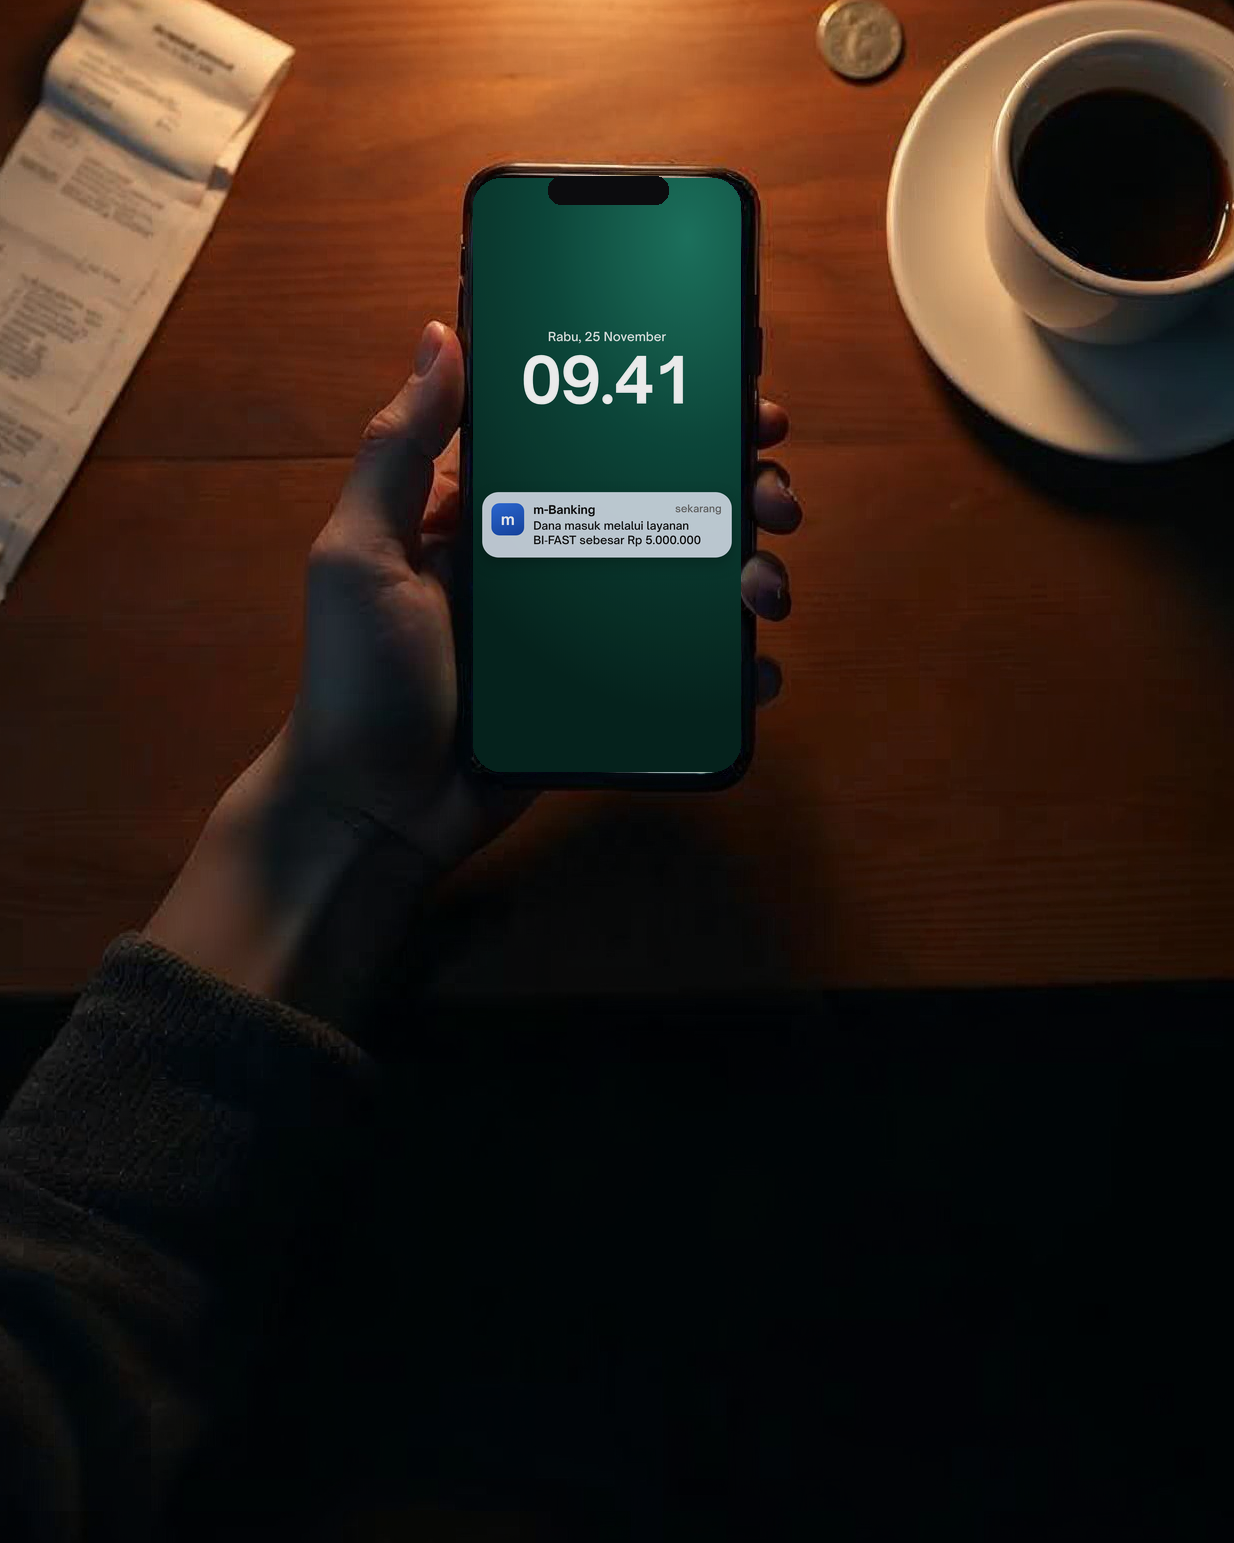
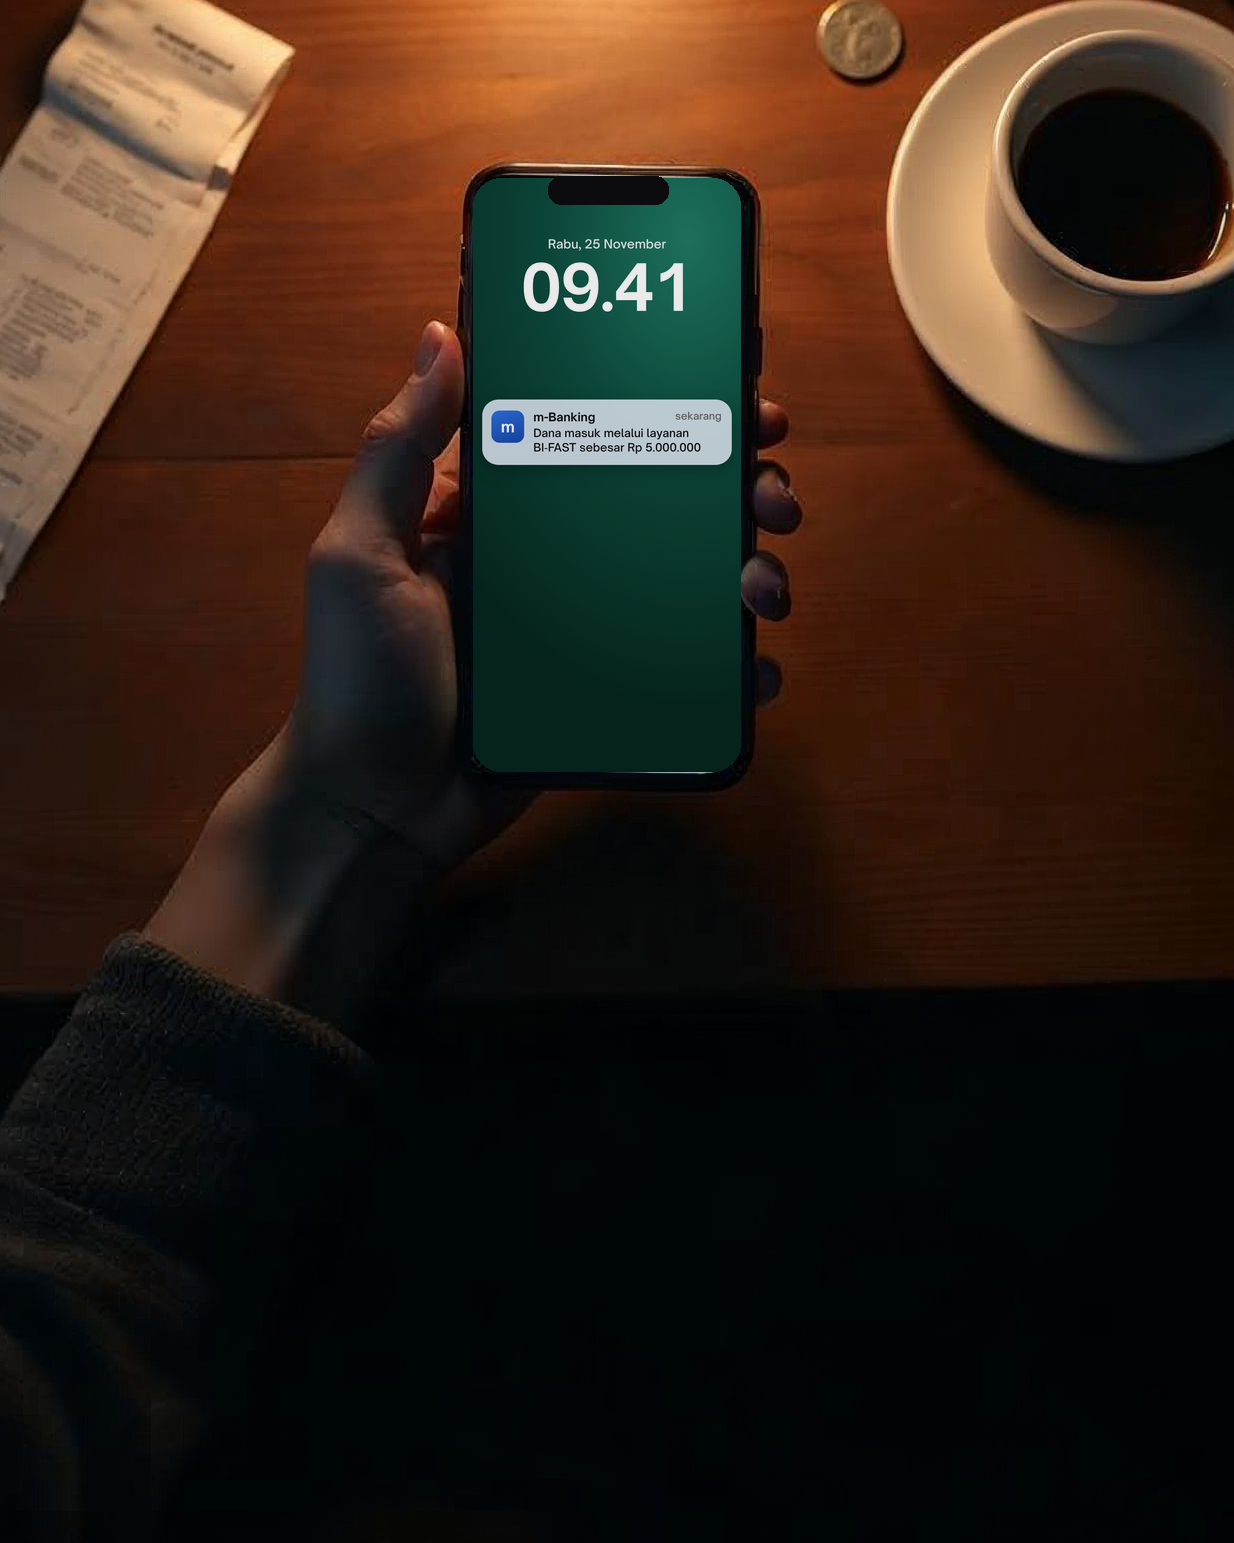
Cover: isi layar kembali ke posisi awal, foto digeser turun, judul dinaikkan
Claude-Session: https://claude.ai/code/session_0151yEFVVwSd8fKr28vRAMgL

Changed region(s): [[0.3695, 0.1555, 0.6159, 0.3733]]

diff --git a/konten/visual/2026-11-19_C-GAJI/foto/cover3-layar.html b/konten/visual/2026-11-19_C-GAJI/foto/cover3-layar.html
@@ -4,9 +4,9 @@
 *{margin:0;padding:0;box-sizing:border-box}
 html,body{width:262px;height:590px;overflow:hidden}
 body{font-family:OS,sans-serif;background:radial-gradient(120% 80% at 80% 10%,#1f7a64 0%,#0d4a3d 45%,#06261f 100%);color:#fff;position:relative}
-.d{position:absolute;top:150px;width:100%;text-align:center;font-size:12px;font-weight:500;opacity:.9}
-.t{position:absolute;top:162px;width:100%;text-align:center;font-size:62px;font-weight:700;letter-spacing:-1px}
-.n{position:absolute;left:9px;right:9px;top:312px;border-radius:16px;background:rgba(235,242,255,.86);color:#111;padding:10px 10px 10px 50px;box-shadow:0 6px 16px rgba(0,0,0,.25)}
+.d{position:absolute;top:58px;width:100%;text-align:center;font-size:12px;font-weight:500;opacity:.9}
+.t{position:absolute;top:70px;width:100%;text-align:center;font-size:62px;font-weight:700;letter-spacing:-1px}
+.n{position:absolute;left:9px;right:9px;top:220px;border-radius:16px;background:rgba(235,242,255,.86);color:#111;padding:10px 10px 10px 50px;box-shadow:0 6px 16px rgba(0,0,0,.25)}
 .n .ic{position:absolute;left:9px;top:11px;width:32px;height:32px;border-radius:8px;background:linear-gradient(160deg,#2f6fe0,#1747a8);display:flex;align-items:center;justify-content:center;color:#fff;font-weight:700;font-size:15px}
 .n .a{font-weight:700;font-size:11.5px;display:flex;justify-content:space-between}
 .n .a span{font-weight:500;color:#666;font-size:10px}

diff --git a/konten/brand/visual/render.py b/konten/brand/visual/render.py
@@ -611,7 +611,9 @@ def slide_html(s, n=1):
     berita = layout in ("berita", "berita-isi", "data", "cta-seakun")
     if berita and s.get("foto"):
         fh = s.get("foto_height", H if layout == "berita" else 700)
-        out.append(f'<img class="bfoto" src="{uri(s["foto"])}" style="height:{fh}px;object-position:{s.get("foto_pos", "center center")}">')
+        geser = s.get("foto_geser", 0)
+        tf = f";transform:scale({1 + geser / 400:.3f});transform-origin:center top" if geser else ""  # zoom dari atas: isi foto turun tanpa celah
+        out.append(f'<img class="bfoto" src="{uri(s["foto"])}" style="height:{fh}px;object-position:{s.get("foto_pos", "center center")}{tf}">')
         out.append('<div class="bshade"></div>')
     if berita and s.get("header", True):
         terang = bool(s.get("foto")) or layout == "cta-seakun" or (layout == "data" and s.get("gambar_mode") == "latar" and s.get("gambar"))
@@ -695,7 +697,7 @@ def slide_html(s, n=1):
                 out.append('<div class="tgrad" style="height:80%"></div>')
                 body = f'<div class="e1">{hk(lines[0])}</div>' + "".join(
                     (f'<div>{hk(l)}</div>' if "__" in l else f'<div class="e2">{hk(l)}</div>') for l in lines[1:])
-                out.append(f'<div class="tipo editorial">{body}' + (f'<div class="s">{sub}</div>' if sub else "") + "</div>")
+                out.append(f'<div class="tipo editorial" style="bottom:{120 + s.get("teks_naik", 0)}px">{body}' + (f'<div class="s">{sub}</div>' if sub else "") + "</div>")
             else:
                 out.append('<div class="tshade" style="height:78%"></div>')
                 kick = f'<div class="torn t1">{html.escape(s["kicker"])}</div>' if s.get("kicker") else ""
